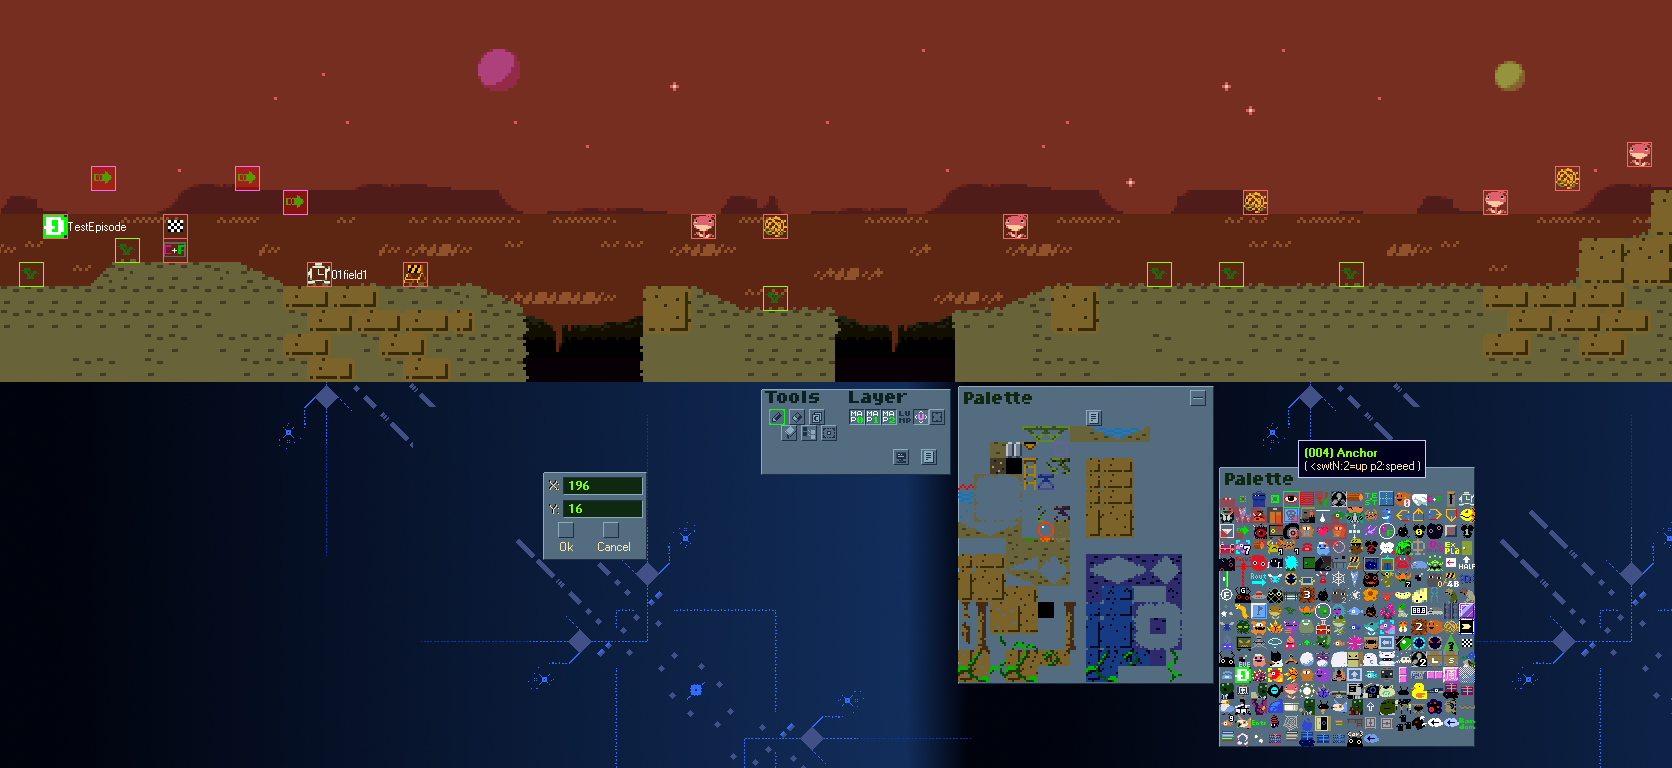
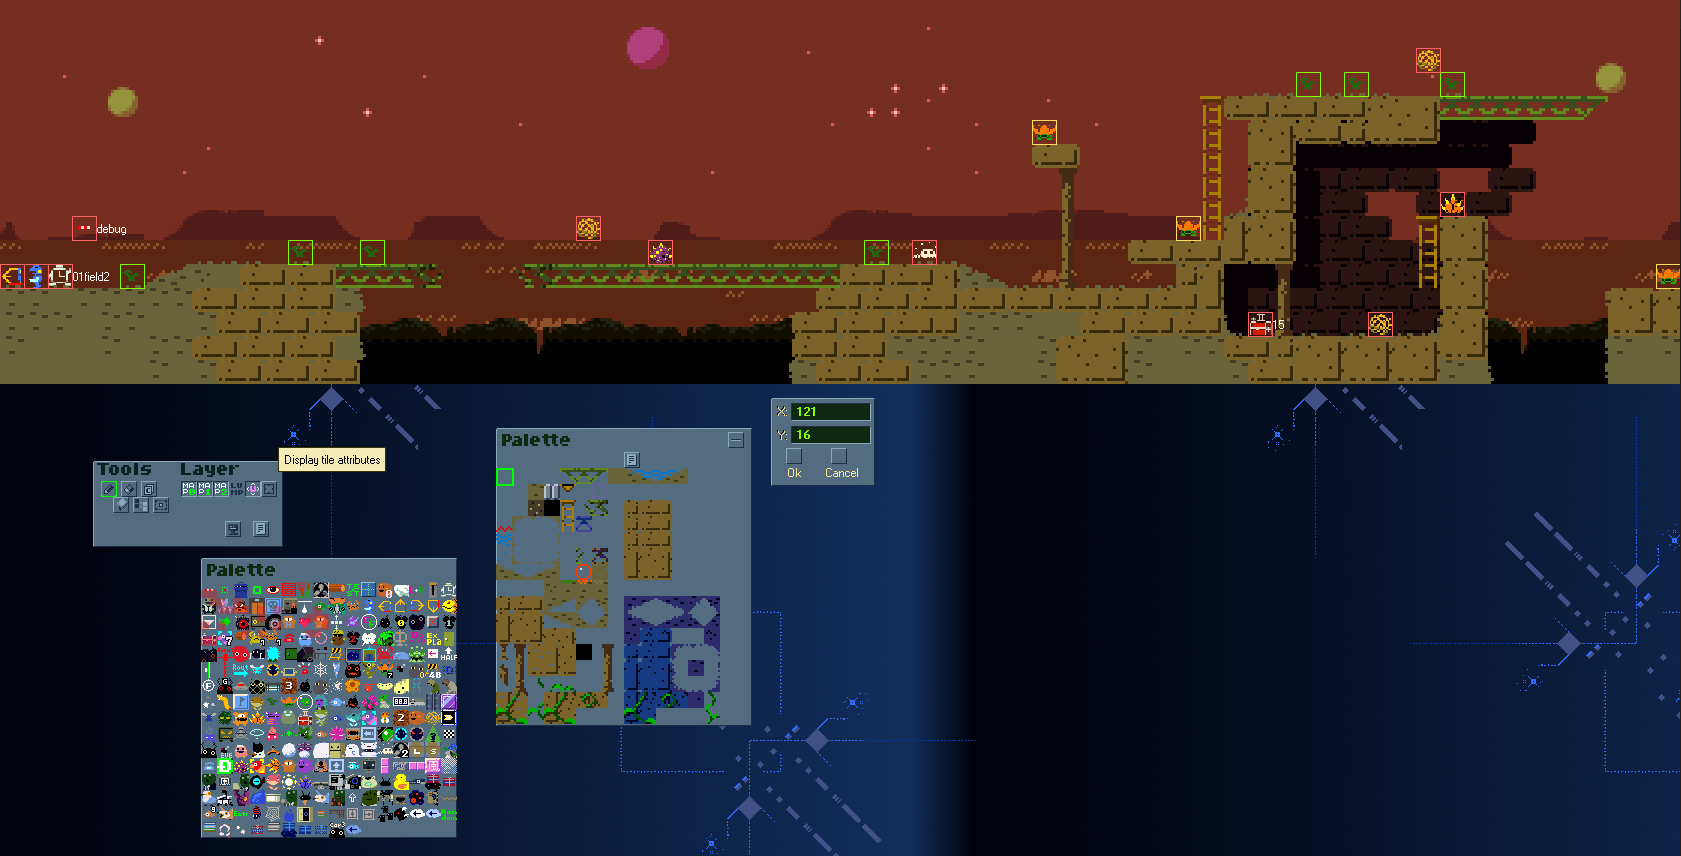
update readme and preview pics

diff --git a/README.md b/README.md
@@ -2,5 +2,8 @@
 ## A collaborative editor for Studio Pixel games
 
 <img src="https://github.com/tilderain/pxEdit/blob/kero/preview.png">
+<img src="https://github.com/tilderain/pxEdit/blob/kero/preview2.png">
 
-Experimental editor with high hopes. Desperately in need of a rewrite, probably in Cython, C, or Rust.
+Experimental collaborative editor with high hopes. It attempts to emulate the style of Pixel's private editor, pxStage. The main draw is the ability to edit levels with other people.
+
+Desperately in need of a rewrite, probably in Cython, C, or Rust.
